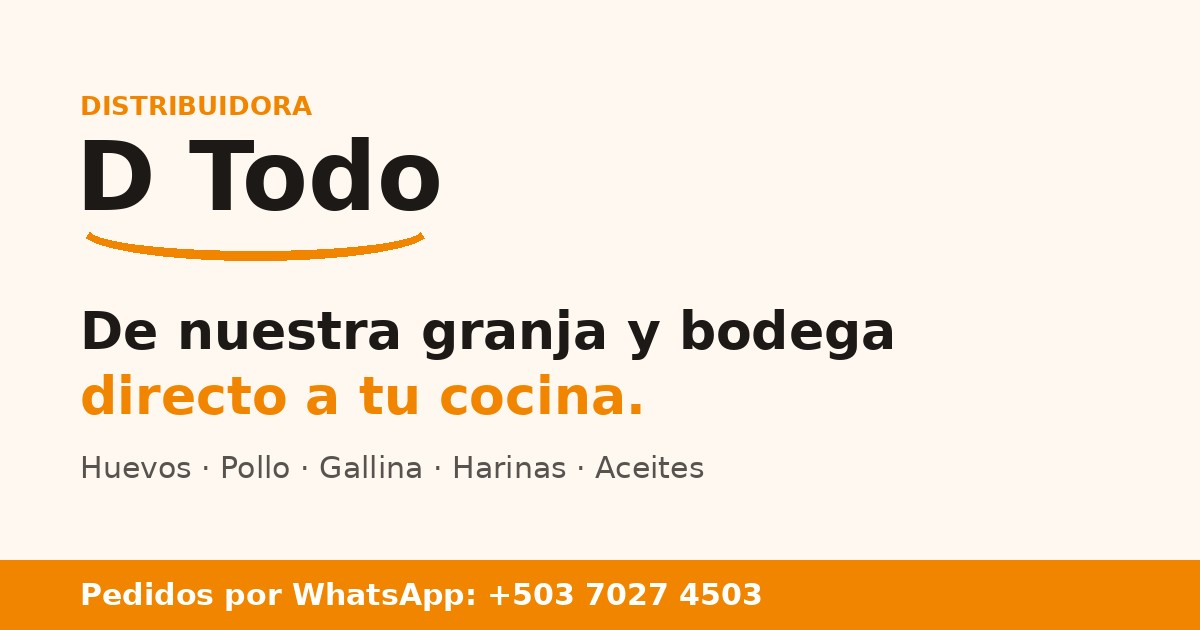
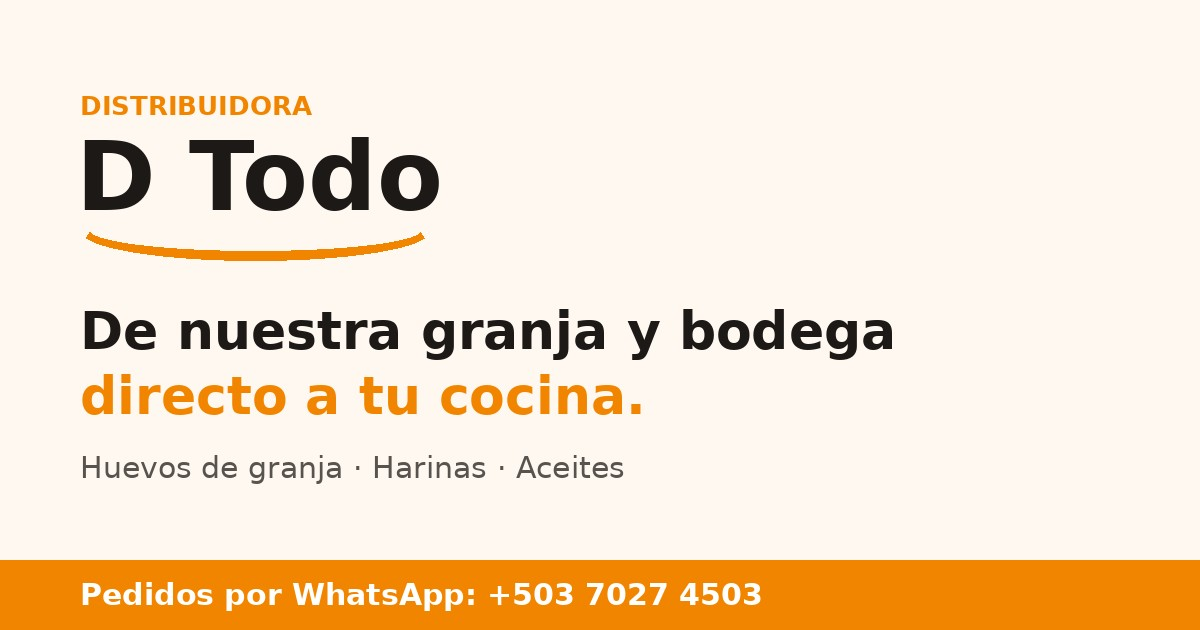
fix: quitar pollo y gallina de la landing de D Todo
La distribuidora no vende pollo ni gallina. Se elimina la tarjeta de
producto, la opción del cotizador y todas las menciones, y se ajusta
el resto del contenido: 4 líneas en vez de 5, nuevo texto para
restaurantes, sección de granja centrada en huevos y metadatos/imagen
para compartir actualizados.

Claude-Session: https://claude.ai/code/session_01WXuHYLLJq5NTyyN6rHBEJw

Changed region(s): [[0.1542, 0.7238, 0.5858, 0.7841]]

diff --git a/distribuidora-dtodo/index.html b/distribuidora-dtodo/index.html
@@ -4,7 +4,7 @@
 <meta charset="utf-8">
 <meta name="viewport" content="width=device-width, initial-scale=1">
 <title>Distribuidora D Todo · Granja propia y abastecimiento B2B en El Salvador</title>
-<meta name="description" content="Huevos, pollo y gallina de granja propia, más harinas y aceites al por mayor. Abastecemos panaderías, pupuserías, restaurantes, hoteles y mayoristas en El Salvador. Cotiza por WhatsApp.">
+<meta name="description" content="Huevos frescos de granja propia, más harinas y aceites al por mayor. Abastecemos panaderías, pupuserías, restaurantes, hoteles y mayoristas en El Salvador. Cotiza por WhatsApp.">
 <meta name="theme-color" content="#F28500">
 <meta name="color-scheme" content="light">
 <meta name="robots" content="index, follow">
@@ -17,14 +17,14 @@
 <meta property="og:locale" content="es_SV">
 <meta property="og:site_name" content="Distribuidora D Todo">
 <meta property="og:title" content="Distribuidora D Todo · De nuestra granja directo a tu cocina">
-<meta property="og:description" content="Huevos, pollo y gallina de granja propia, más harinas y aceites al por mayor. Precio de productor para tu negocio.">
+<meta property="og:description" content="Huevos frescos de granja propia, más harinas y aceites al por mayor. Precio de productor para tu negocio.">
 <meta property="og:url" content="https://TU-DOMINIO.com/">
 <meta property="og:image" content="https://TU-DOMINIO.com/og-image.jpg">
 <meta property="og:image:width" content="1200">
 <meta property="og:image:height" content="630">
 <meta name="twitter:card" content="summary_large_image">
 <meta name="twitter:title" content="Distribuidora D Todo · De nuestra granja directo a tu cocina">
-<meta name="twitter:description" content="Huevos, pollo y gallina de granja propia, más harinas y aceites al por mayor.">
+<meta name="twitter:description" content="Huevos frescos de granja propia, más harinas y aceites al por mayor.">
 <meta name="twitter:image" content="https://TU-DOMINIO.com/og-image.jpg">
 
 <script type="application/ld+json">
@@ -145,16 +145,16 @@ section[id]{scroll-margin-top:96px}
         Productores Avícolas &amp; Abastecimiento B2B
       </div>
       <h1 style="margin:0;font-family:'Oswald',sans-serif;font-weight:700;text-transform:uppercase;font-size:clamp(54px,7vw,112px);line-height:.92;letter-spacing:-.01em;text-wrap:balance">De nuestra granja y bodega <span style="color:#F28500">directo a tu cocina.</span></h1>
-      <p style="margin:0;max-width:540px;font-size:clamp(16px,1.3vw,19px);line-height:1.6;color:#57534e;text-wrap:pretty">Abastecemos panaderías, pupuserías, restaurantes, comedores y mayoristas en El Salvador. Huevos, pollo y gallina de nuestra propia granja, más harinas y aceites al por mayor. Un solo proveedor, precio de productor.</p>
+      <p style="margin:0;max-width:540px;font-size:clamp(16px,1.3vw,19px);line-height:1.6;color:#57534e;text-wrap:pretty">Abastecemos panaderías, pupuserías, restaurantes, comedores y mayoristas en El Salvador. Huevos frescos de nuestra propia granja, más harinas y aceites al por mayor. Un solo proveedor, precio de productor.</p>
       <div style="display:flex;flex-wrap:wrap;gap:12px">
         <a class="h3" href="https://wa.me/50370274503?text=Hola%20D%20Todo%2C%20tengo%20un%20negocio%20y%20quiero%20cotizar%20precios%20especiales%20de%20distribuidor." target="_blank" rel="noopener" style="display:flex;align-items:center;gap:10px;background:#F28500;color:#ffffff;font-weight:700;font-size:16px;padding:18px 24px;border-radius:12px">
           Cotizar por WhatsApp
           <svg width="18" height="18" viewBox="0 0 24 24" fill="none" stroke="currentColor" stroke-width="2.4" stroke-linecap="round" stroke-linejoin="round"><path d="M7 7h10v10"></path><path d="M7 17 17 7"></path></svg>
         </a>
-        <a class="h4" href="#productos" style="display:flex;align-items:center;gap:10px;border:1px solid #f1e6d8;color:#1c1917;font-weight:600;font-size:16px;padding:18px 24px;border-radius:12px;background:#ffffff">Ver las 5 líneas</a>
+        <a class="h4" href="#productos" style="display:flex;align-items:center;gap:10px;border:1px solid #f1e6d8;color:#1c1917;font-weight:600;font-size:16px;padding:18px 24px;border-radius:12px;background:#ffffff">Ver las 4 líneas</a>
       </div>
       <div style="display:flex;flex-wrap:wrap;gap:28px;padding-top:20px;border-top:1px solid #f1e6d8;width:100%;max-width:540px">
-        <div style="display:flex;flex-direction:column;gap:4px"><span style="font-family:'Oswald',sans-serif;font-size:15px;font-weight:600;letter-spacing:.06em;text-transform:uppercase;color:#1c1917">Granja propia</span><span style="font-size:13px;color:#78716c">Huevos · Pollo · Gallina</span></div>
+        <div style="display:flex;flex-direction:column;gap:4px"><span style="font-family:'Oswald',sans-serif;font-size:15px;font-weight:600;letter-spacing:.06em;text-transform:uppercase;color:#1c1917">Granja propia</span><span style="font-size:13px;color:#78716c">Huevos frescos a diario</span></div>
         <div style="display:flex;flex-direction:column;gap:4px"><span style="font-family:'Oswald',sans-serif;font-size:15px;font-weight:600;letter-spacing:.06em;text-transform:uppercase;color:#1c1917">Bodega mayorista</span><span style="font-size:13px;color:#78716c">Harinas · Aceites</span></div>
       </div>
     </div>
@@ -187,9 +187,8 @@ section[id]{scroll-margin-top:96px}
         <span style="font-size:14px;font-weight:700;line-height:1.25">Precios especiales<br>a distribuidores</span>
       </div>
       <div style="position:absolute;top:50%;right:-16px;transform:translateY(-50%);display:flex;flex-direction:column;gap:10px;padding:16px 18px;background:rgba(255,255,255,.94);backdrop-filter:blur(14px);-webkit-backdrop-filter:blur(14px);border:1px solid #f1e6d8;border-radius:14px;box-shadow:0 18px 40px rgba(120,72,20,.14)">
-        <span style="font-family:'Oswald',sans-serif;font-weight:600;font-size:13px;letter-spacing:.1em;text-transform:uppercase;color:#57534e">5 líneas esenciales</span>
+        <span style="font-family:'Oswald',sans-serif;font-weight:600;font-size:13px;letter-spacing:.1em;text-transform:uppercase;color:#57534e">4 líneas esenciales</span>
         <div style="display:flex;gap:6px">
-          <span style="width:22px;height:6px;border-radius:3px;background:#F28500"></span>
           <span style="width:22px;height:6px;border-radius:3px;background:#F28500"></span>
           <span style="width:22px;height:6px;border-radius:3px;background:#F28500"></span>
           <span style="width:22px;height:6px;border-radius:3px;background:#F28500"></span>
@@ -202,7 +201,7 @@ section[id]{scroll-margin-top:96px}
 
 <!-- TICKER -->
 <div style="background:#F28500;border-top:1px solid #f59a2e;border-bottom:1px solid #d96f00;overflow:hidden;padding:20px 0">
-  <div class="dt-tick"><div class="dt-tick-g"><span class="dt-tick-t">Huevos de granja propia</span><span class="dt-tick-d"></span><span class="dt-tick-t">Pollo y gallina fresca</span><span class="dt-tick-d"></span><span class="dt-tick-t">Harina de trigo El Panadero (50 lb)</span><span class="dt-tick-d"></span><span class="dt-tick-t">Harina de arroz Tío Pepe (25 lb)</span><span class="dt-tick-d"></span><span class="dt-tick-t">Aceites vegetales Día a Día</span><span class="dt-tick-d"></span><span class="dt-tick-t">Precios especiales a distribuidores</span><span class="dt-tick-d"></span></div><div class="dt-tick-g" aria-hidden="true"><span class="dt-tick-t">Huevos de granja propia</span><span class="dt-tick-d"></span><span class="dt-tick-t">Pollo y gallina fresca</span><span class="dt-tick-d"></span><span class="dt-tick-t">Harina de trigo El Panadero (50 lb)</span><span class="dt-tick-d"></span><span class="dt-tick-t">Harina de arroz Tío Pepe (25 lb)</span><span class="dt-tick-d"></span><span class="dt-tick-t">Aceites vegetales Día a Día</span><span class="dt-tick-d"></span><span class="dt-tick-t">Precios especiales a distribuidores</span><span class="dt-tick-d"></span></div></div>
+  <div class="dt-tick"><div class="dt-tick-g"><span class="dt-tick-t">Huevos de granja propia</span><span class="dt-tick-d"></span><span class="dt-tick-t">Harina de trigo El Panadero (50 lb)</span><span class="dt-tick-d"></span><span class="dt-tick-t">Harina de arroz Tío Pepe (25 lb)</span><span class="dt-tick-d"></span><span class="dt-tick-t">Aceites vegetales Día a Día</span><span class="dt-tick-d"></span><span class="dt-tick-t">Precios especiales a distribuidores</span><span class="dt-tick-d"></span></div><div class="dt-tick-g" aria-hidden="true"><span class="dt-tick-t">Huevos de granja propia</span><span class="dt-tick-d"></span><span class="dt-tick-t">Harina de trigo El Panadero (50 lb)</span><span class="dt-tick-d"></span><span class="dt-tick-t">Harina de arroz Tío Pepe (25 lb)</span><span class="dt-tick-d"></span><span class="dt-tick-t">Aceites vegetales Día a Día</span><span class="dt-tick-d"></span><span class="dt-tick-t">Precios especiales a distribuidores</span><span class="dt-tick-d"></span></div></div>
 </div>
 
 <!-- WHO WE SERVE -->
@@ -231,8 +230,8 @@ section[id]{scroll-margin-top:96px}
         <button type="button" class="dt-tab" data-seg="rest" aria-pressed="false">
             <span style="font-family:'Oswald',sans-serif;font-size:14px;font-weight:600;color:#F28500;min-width:28px">02</span>
             <span style="display:flex;flex-direction:column;gap:6px;flex:1;text-align:left">
-              <span style="font-family:'Oswald',sans-serif;font-size:clamp(22px,2vw,28px);font-weight:600;text-transform:uppercase;letter-spacing:.01em;line-height:1.05;color:#1c1917">Restaurantes, pollerías y comedores</span>
-              <span style="font-size:14px;color:#57534e;line-height:1.5">Pollo y gallina fresca, aceite para fritura profunda.</span>
+              <span style="font-family:'Oswald',sans-serif;font-size:clamp(22px,2vw,28px);font-weight:600;text-transform:uppercase;letter-spacing:.01em;line-height:1.05;color:#1c1917">Restaurantes, comedores y cafeterías</span>
+              <span style="font-size:14px;color:#57534e;line-height:1.5">Huevos, aceite para fritura y harinas para tu menú.</span>
             </span>
             <span class="dt-arrow" aria-hidden="true">
               <svg width="18" height="18" viewBox="0 0 24 24" fill="none" stroke="currentColor" stroke-width="2.2" stroke-linecap="round" stroke-linejoin="round"><path d="M5 12h14"></path><path d="m12 5 7 7-7 7"></path></svg>
@@ -286,7 +285,7 @@ section[id]{scroll-margin-top:96px}
     <div style="display:flex;flex-wrap:wrap;justify-content:space-between;align-items:flex-end;gap:24px">
       <div style="display:flex;flex-direction:column;gap:18px;max-width:820px">
         <span style="font-size:12px;font-weight:700;letter-spacing:.18em;text-transform:uppercase;color:#d96f00">02 — Precios especiales a distribuidores</span>
-        <h2 style="margin:0;font-family:'Oswald',sans-serif;font-weight:700;text-transform:uppercase;font-size:clamp(44px,6vw,88px);line-height:.95;letter-spacing:-.01em">5 líneas esenciales. <span style="color:#F28500">Un solo proveedor.</span></h2>
+        <h2 style="margin:0;font-family:'Oswald',sans-serif;font-weight:700;text-transform:uppercase;font-size:clamp(44px,6vw,88px);line-height:.95;letter-spacing:-.01em">4 líneas esenciales. <span style="color:#F28500">Un solo proveedor.</span></h2>
       </div>
       <p style="margin:0;max-width:380px;font-size:16px;line-height:1.6;color:#57534e;text-wrap:pretty">Vendemos por formato mayorista. Cotiza el volumen que mueve tu negocio y te respondemos por WhatsApp.</p>
     </div>
@@ -325,8 +324,8 @@ section[id]{scroll-margin-top:96px}
         </div>
       </article>
       <!-- 3 -->
-      <article class="h6" style="flex:1 1 320px;position:relative;display:flex;flex-direction:column;border:1px solid #f1e6d8;border-radius:24px;background:#ffffff;overflow:hidden;transition:border-color .3s,transform .3s,box-shadow .3s;box-shadow:0 1px 2px rgba(120,72,20,.04)">
-        <div style="position:relative;height:240px;overflow:hidden;background:#f7f0e8">
+      <article class="h6" style="flex:1 1 440px;position:relative;display:flex;flex-direction:column;border:1px solid #f1e6d8;border-radius:24px;background:#ffffff;overflow:hidden;transition:border-color .3s,transform .3s,box-shadow .3s;box-shadow:0 1px 2px rgba(120,72,20,.04)">
+        <div style="position:relative;height:300px;overflow:hidden;background:#f7f0e8">
           <img loading="lazy" decoding="async" src="https://images.unsplash.com/photo-1582722872445-44dc5f7e3c8f?w=900&amp;q=80&amp;auto=format&amp;fit=crop" alt="Huevos de granja" style="width:100%;height:100%;object-fit:cover;filter:saturate(1.05) contrast(1.03)">
           <div style="position:absolute;inset:0;background:linear-gradient(180deg,rgba(255,255,255,0) 30%,#ffffff 100%)"></div>
           <div style="position:absolute;left:50%;bottom:-80px;transform:translateX(-50%);width:260px;height:180px;background:#F28500;opacity:.16;filter:blur(70px);border-radius:50%"></div>
@@ -341,28 +340,12 @@ section[id]{scroll-margin-top:96px}
         </div>
       </article>
       <!-- 4 -->
-      <article class="h6" style="flex:1 1 320px;position:relative;display:flex;flex-direction:column;border:1px solid #f1e6d8;border-radius:24px;background:#ffffff;overflow:hidden;transition:border-color .3s,transform .3s,box-shadow .3s;box-shadow:0 1px 2px rgba(120,72,20,.04)">
-        <div style="position:relative;height:240px;overflow:hidden;background:#f7f0e8">
-          <img loading="lazy" decoding="async" src="https://images.unsplash.com/photo-1604503468506-a8da13d82791?w=900&amp;q=80&amp;auto=format&amp;fit=crop" alt="Pollo fresco" style="width:100%;height:100%;object-fit:cover;filter:saturate(1.05) contrast(1.03)">
-          <div style="position:absolute;inset:0;background:linear-gradient(180deg,rgba(255,255,255,0) 30%,#ffffff 100%)"></div>
-          <div style="position:absolute;left:50%;bottom:-80px;transform:translateX(-50%);width:260px;height:180px;background:#F28500;opacity:.16;filter:blur(70px);border-radius:50%"></div>
-          <span style="position:absolute;top:18px;left:18px;font-family:'Oswald',sans-serif;font-size:14px;font-weight:600;color:#1c1917;background:rgba(255,255,255,.94);border:1px solid #ffffff;padding:6px 10px;border-radius:8px">04</span>
-          <span style="position:absolute;top:18px;right:18px;font-size:11px;font-weight:700;letter-spacing:.12em;text-transform:uppercase;color:#ffffff;background:#F28500;padding:7px 10px;border-radius:8px">Por libra / volumen</span>
-        </div>
-        <div style="position:relative;flex:1;display:flex;flex-direction:column;gap:14px;padding:28px">
-          <span style="font-size:12px;font-weight:700;letter-spacing:.14em;text-transform:uppercase;color:#d96f00">Granja propia</span>
-          <h3 style="margin:0;font-family:'Oswald',sans-serif;font-weight:700;text-transform:uppercase;font-size:clamp(26px,2.2vw,32px);line-height:1">Pollo y gallina</h3>
-          <p style="margin:0;font-size:15px;line-height:1.6;color:#57534e;text-wrap:pretty">Crianza controlada y frescura garantizada, del galpón directo a tu negocio.</p>
-          <a class="h7" href="https://wa.me/50370274503?text=Hola%20D%20Todo%2C%20quiero%20cotizar%20volumen%20de%20Pollo%20y%20Gallina%20de%20granja%20propia." target="_blank" rel="noopener" style="margin-top:auto;display:flex;align-items:center;justify-content:space-between;border:1px solid #eadfd2;color:#1c1917;font-weight:700;font-size:15px;padding:16px 18px;border-radius:12px">Cotizar volumen <svg width="18" height="18" viewBox="0 0 24 24" fill="none" stroke="currentColor" stroke-width="2.4" stroke-linecap="round" stroke-linejoin="round"><path d="M7 7h10v10"></path><path d="M7 17 17 7"></path></svg></a>
-        </div>
-      </article>
-      <!-- 5 -->
-      <article class="h6" style="flex:1 1 320px;position:relative;display:flex;flex-direction:column;border:1px solid #f1e6d8;border-radius:24px;background:#ffffff;overflow:hidden;transition:border-color .3s,transform .3s,box-shadow .3s;box-shadow:0 1px 2px rgba(120,72,20,.04)">
-        <div style="position:relative;height:240px;overflow:hidden;background:#f7f0e8">
+      <article class="h6" style="flex:1 1 440px;position:relative;display:flex;flex-direction:column;border:1px solid #f1e6d8;border-radius:24px;background:#ffffff;overflow:hidden;transition:border-color .3s,transform .3s,box-shadow .3s;box-shadow:0 1px 2px rgba(120,72,20,.04)">
+        <div style="position:relative;height:300px;overflow:hidden;background:#f7f0e8">
           <img loading="lazy" decoding="async" src="https://images.unsplash.com/photo-1474979266404-7eaacbcd87c5?w=900&amp;q=80&amp;auto=format&amp;fit=crop" alt="Aceite vegetal" style="width:100%;height:100%;object-fit:cover;filter:saturate(1.05) contrast(1.03)">
           <div style="position:absolute;inset:0;background:linear-gradient(180deg,rgba(255,255,255,0) 30%,#ffffff 100%)"></div>
           <div style="position:absolute;left:50%;bottom:-80px;transform:translateX(-50%);width:260px;height:180px;background:#F28500;opacity:.16;filter:blur(70px);border-radius:50%"></div>
-          <span style="position:absolute;top:18px;left:18px;font-family:'Oswald',sans-serif;font-size:14px;font-weight:600;color:#1c1917;background:rgba(255,255,255,.94);border:1px solid #ffffff;padding:6px 10px;border-radius:8px">05</span>
+          <span style="position:absolute;top:18px;left:18px;font-family:'Oswald',sans-serif;font-size:14px;font-weight:600;color:#1c1917;background:rgba(255,255,255,.94);border:1px solid #ffffff;padding:6px 10px;border-radius:8px">04</span>
           <span style="position:absolute;top:18px;right:18px;font-size:11px;font-weight:700;letter-spacing:.12em;text-transform:uppercase;color:#ffffff;background:#F28500;padding:7px 10px;border-radius:8px">Por bidón / caja</span>
         </div>
         <div style="position:relative;flex:1;display:flex;flex-direction:column;gap:14px;padding:28px">
@@ -380,11 +363,11 @@ section[id]{scroll-margin-top:96px}
 <section id="granja" data-section="Granja propia" style="position:relative;padding:clamp(80px,10vw,140px) clamp(20px,4vw,56px)">
   <div style="max-width:1320px;margin:0 auto;display:grid;grid-template-columns:repeat(auto-fit,minmax(min(100%,500px),1fr));gap:clamp(40px,5vw,80px);align-items:stretch">
     <div style="position:relative;min-height:620px;border-radius:24px;overflow:hidden;border:1px solid #f1e6d8;background:#f7f0e8">
-      <img loading="lazy" decoding="async" src="https://images.unsplash.com/photo-1548550023-2bdb3c5beed7?w=1200&amp;q=80&amp;auto=format&amp;fit=crop" alt="Gallinas en granja" style="position:absolute;inset:0;width:100%;height:100%;object-fit:cover;filter:saturate(1.05) contrast(1.03)">
+      <img loading="lazy" decoding="async" src="https://images.unsplash.com/photo-1548550023-2bdb3c5beed7?w=1200&amp;q=80&amp;auto=format&amp;fit=crop" alt="Gallinas ponedoras en nuestra granja" style="position:absolute;inset:0;width:100%;height:100%;object-fit:cover;filter:saturate(1.05) contrast(1.03)">
       <div style="position:absolute;inset:0;background:linear-gradient(180deg,rgba(10,10,10,.1) 0%,rgba(10,10,10,.9) 100%)"></div>
       <div style="position:absolute;left:0;right:0;bottom:0;display:flex;flex-direction:column;gap:12px;padding:clamp(24px,3vw,40px)">
         <span style="font-size:12px;font-weight:700;letter-spacing:.16em;text-transform:uppercase;color:#F28500">Granja D Todo</span>
-        <span style="font-family:'Oswald',sans-serif;font-weight:700;text-transform:uppercase;color:#ffffff;font-size:clamp(30px,3vw,44px);line-height:1">Criamos, recolectamos y entregamos.</span>
+        <span style="font-family:'Oswald',sans-serif;font-weight:700;text-transform:uppercase;color:#ffffff;font-size:clamp(30px,3vw,44px);line-height:1">Recolectamos, clasificamos y entregamos.</span>
       </div>
     </div>
 
@@ -416,7 +399,7 @@ section[id]{scroll-margin-top:96px}
 
       <div style="display:grid;grid-template-columns:repeat(auto-fit,minmax(220px,1fr));gap:1px;background:#f1e6d8;border:1px solid #f1e6d8;border-radius:16px;overflow:hidden">
         <div style="display:flex;flex-direction:column;gap:8px;padding:22px;background:#ffffff"><span style="font-family:'Oswald',sans-serif;font-size:20px;font-weight:600;text-transform:uppercase">Menor costo</span><span style="font-size:14px;line-height:1.55;color:#57534e">Precio de productor, sin márgenes de reventa.</span></div>
-        <div style="display:flex;flex-direction:column;gap:8px;padding:22px;background:#ffffff"><span style="font-family:'Oswald',sans-serif;font-size:20px;font-weight:600;text-transform:uppercase">Más frescura</span><span style="font-size:14px;line-height:1.55;color:#57534e">Huevos de recolección diaria y pollo del galpón a tu negocio.</span></div>
+        <div style="display:flex;flex-direction:column;gap:8px;padding:22px;background:#ffffff"><span style="font-family:'Oswald',sans-serif;font-size:20px;font-weight:600;text-transform:uppercase">Más frescura</span><span style="font-size:14px;line-height:1.55;color:#57534e">Huevos de recolección diaria, directo de la granja a tu negocio.</span></div>
         <div style="display:flex;flex-direction:column;gap:8px;padding:22px;background:#ffffff"><span style="font-family:'Oswald',sans-serif;font-size:20px;font-weight:600;text-transform:uppercase">Abasto seguro</span><span style="font-size:14px;line-height:1.55;color:#57534e">Controlamos la producción, no dependemos de terceros.</span></div>
         <div style="display:flex;flex-direction:column;gap:8px;padding:22px;background:#ffffff"><span style="font-family:'Oswald',sans-serif;font-size:20px;font-weight:600;text-transform:uppercase">Trazabilidad</span><span style="font-size:14px;line-height:1.55;color:#57534e">Sabes de dónde viene cada caja que recibes.</span></div>
       </div>
@@ -455,7 +438,6 @@ Volumen estimado: 10 – 50 unidades por semana</span>
         <span style="font-size:13px;font-weight:700;color:#1c1917"><span style="color:#F28500;font-family:'Oswald',sans-serif;margin-right:8px">2</span>Insumos de interés <span style="font-weight:500;color:#78716c">· puedes marcar varios</span></span>
         <div style="display:grid;grid-template-columns:repeat(auto-fit,minmax(150px,1fr));gap:8px">
           <button type="button" class="dt-opt dt-opt--check is-on" data-item="Huevos" aria-pressed="true"><span class="dt-box" aria-hidden="true"><svg width="12" height="12" viewBox="0 0 24 24" fill="none" stroke="#ffffff" stroke-width="3.5" stroke-linecap="round" stroke-linejoin="round"><path d="M20 6 9 17l-5-5"></path></svg></span>Huevos</button>
-          <button type="button" class="dt-opt dt-opt--check" data-item="Pollo / Gallina" aria-pressed="false"><span class="dt-box" aria-hidden="true"><svg width="12" height="12" viewBox="0 0 24 24" fill="none" stroke="#ffffff" stroke-width="3.5" stroke-linecap="round" stroke-linejoin="round"><path d="M20 6 9 17l-5-5"></path></svg></span>Pollo / Gallina</button>
           <button type="button" class="dt-opt dt-opt--check is-on" data-item="Harinas" aria-pressed="true"><span class="dt-box" aria-hidden="true"><svg width="12" height="12" viewBox="0 0 24 24" fill="none" stroke="#ffffff" stroke-width="3.5" stroke-linecap="round" stroke-linejoin="round"><path d="M20 6 9 17l-5-5"></path></svg></span>Harinas</button>
           <button type="button" class="dt-opt dt-opt--check" data-item="Aceite" aria-pressed="false"><span class="dt-box" aria-hidden="true"><svg width="12" height="12" viewBox="0 0 24 24" fill="none" stroke="#ffffff" stroke-width="3.5" stroke-linecap="round" stroke-linejoin="round"><path d="M20 6 9 17l-5-5"></path></svg></span>Aceite</button>
         </div>
@@ -515,7 +497,6 @@ Volumen estimado: 10 – 50 unidades por semana</span>
           <span style="font-size:12px;font-weight:700;letter-spacing:.16em;text-transform:uppercase;color:#1c1917">Productos</span>
           <a class="h9" href="#productos" style="font-size:14px;color:#57534e">Harinas de trigo y arroz</a>
           <a class="h9" href="#productos" style="font-size:14px;color:#57534e">Huevos de granja propia</a>
-          <a class="h9" href="#productos" style="font-size:14px;color:#57534e">Pollo y gallina</a>
           <a class="h9" href="#productos" style="font-size:14px;color:#57534e">Aceites comerciales</a>
         </div>
         <div style="display:flex;flex-direction:column;gap:12px">

diff --git a/distribuidora-dtodo/assets/app.js b/distribuidora-dtodo/assets/app.js
@@ -11,11 +11,11 @@
       desc: 'Harinas de trigo y arroz de alto rendimiento, huevos frescos de granja con yema firme y aceites para panificación. Un pedido cubre tu semana.',
       products: ['Harina de Trigo El Panadero 50 lb', 'Harina de Arroz Tío Pepe 25 lb', 'Huevos de granja', 'Aceite vegetal'],
       cta: 'Cotizar para mi panadería', msg: 'Hola D Todo, tengo una panadería/pupusería y quiero cotizar harinas, huevos y aceite.' },
-    rest: { label: 'Restaurantes, pollerías y comedores', tag: 'Cocina profesional',
-      title: 'Pollo fresco directo de nuestra granja.', image: IMG('photo-1414235077428-338989a2e8c0'),
-      desc: 'Pollo y gallina fresca directa de nuestra granja y aceite para fritura profunda. Calidad constante para que tu menú salga igual todos los días.',
-      products: ['Pollo fresco', 'Gallina', 'Huevos de granja', 'Aceite para fritura'],
-      cta: 'Cotizar para mi restaurante', msg: 'Hola D Todo, tengo un restaurante/pollería/comedor y quiero cotizar pollo, gallina y aceite.' },
+    rest: { label: 'Restaurantes, comedores y cafeterías', tag: 'Cocina profesional',
+      title: 'Insumos constantes para tu cocina diaria.', image: IMG('photo-1414235077428-338989a2e8c0'),
+      desc: 'Huevos frescos de nuestra granja, aceite de alto rendimiento para fritura y harinas para masas, empanizados y repostería. Calidad constante para que tu menú salga igual todos los días.',
+      products: ['Huevos de granja', 'Aceite para fritura', 'Harina de trigo', 'Harina de arroz'],
+      cta: 'Cotizar para mi restaurante', msg: 'Hola D Todo, tengo un restaurante/comedor/cafetería y quiero cotizar huevos, aceite y harinas.' },
     may: { label: 'Mayoristas y tiendas de abasto', tag: 'Reventa',
       title: 'Precios por volumen para maximizar tu margen.', image: IMG('photo-1542838132-92c53300491e'),
       desc: 'Precios especiales por volumen en quintales, fardos y cajas para maximizar tu margen de ganancia. Compra al productor y revende con ventaja.',
@@ -24,10 +24,10 @@
     hot: { label: 'Hoteles y catering', tag: 'Servicio de eventos',
       title: 'Volumen garantizado, entrega puntual.', image: IMG('photo-1555244162-803834f70033'),
       desc: 'Abastecimiento puntual, volumen garantizado y trazabilidad de cada producto. Planifica eventos y temporadas altas sin riesgo de faltantes.',
-      products: ['Huevos clasificados', 'Pollo y gallina', 'Harinas', 'Aceites'],
+      products: ['Huevos clasificados', 'Harina de trigo', 'Harina de arroz', 'Aceites'],
       cta: 'Cotizar para mi hotel o catering', msg: 'Hola D Todo, tengo un hotel/servicio de catering y quiero cotizar abastecimiento por volumen.' }
   };
-  var ITEMS = ['Huevos', 'Pollo / Gallina', 'Harinas', 'Aceite'];
+  var ITEMS = ['Huevos', 'Harinas', 'Aceite'];
 
   var $ = function (sel, root) { return (root || document).querySelector(sel); };
   var $$ = function (sel, root) { return Array.prototype.slice.call((root || document).querySelectorAll(sel)); };
